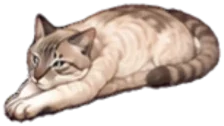
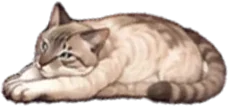
Pounce Up: Rayla lies level on the floor and along a shelf
rayla-low is turned 13.5 degrees from the sheet, so her paws and hips both touch the floor rather than her back end
hovering.

Claude-Session: https://claude.ai/code/session_0122u3nkn9MP3JQBHmDs9Jmj

diff --git a/ARTWORK.md b/ARTWORK.md
@@ -84,7 +84,8 @@ Bed Hog has no star cat yet: `c14-29` (a ginger cat on its back) sleeps beside i
   safe on all four paws, on the card after a miss. They're cut from the owner's full-size sheet (2026-11-11, 2000 ×
   1196 with a see-through background, so no white edge in Dark Mode; the second copy, with `rayla-bound` clear of
   `rayla-startled`), which has Moonpie and Ferguson too. Pounce Up draws every pose at one scale (`SC`, units per
-  pixel of the sheet).
+  pixel of the sheet). `rayla-low` is turned 13.5° from the sheet so she lies level, her paws and hips on the floor
+  (the owner, 2026-11-11: she looked to hover).
 - **Moonpie** (`moonpie-…`, brown and white with blue eyes) has seven poses from the same sheet, named as Rayla's are:
   `moonpie-sit`, `-crouch`, `-leap`, `-dive`, `-bound`, `-low` and `-crouch2`. They're in `cats/` for later, not for
   Pounce Up (the owner, 2026-11-11). She was first noted as a cuddly cat rather than one for action games.
